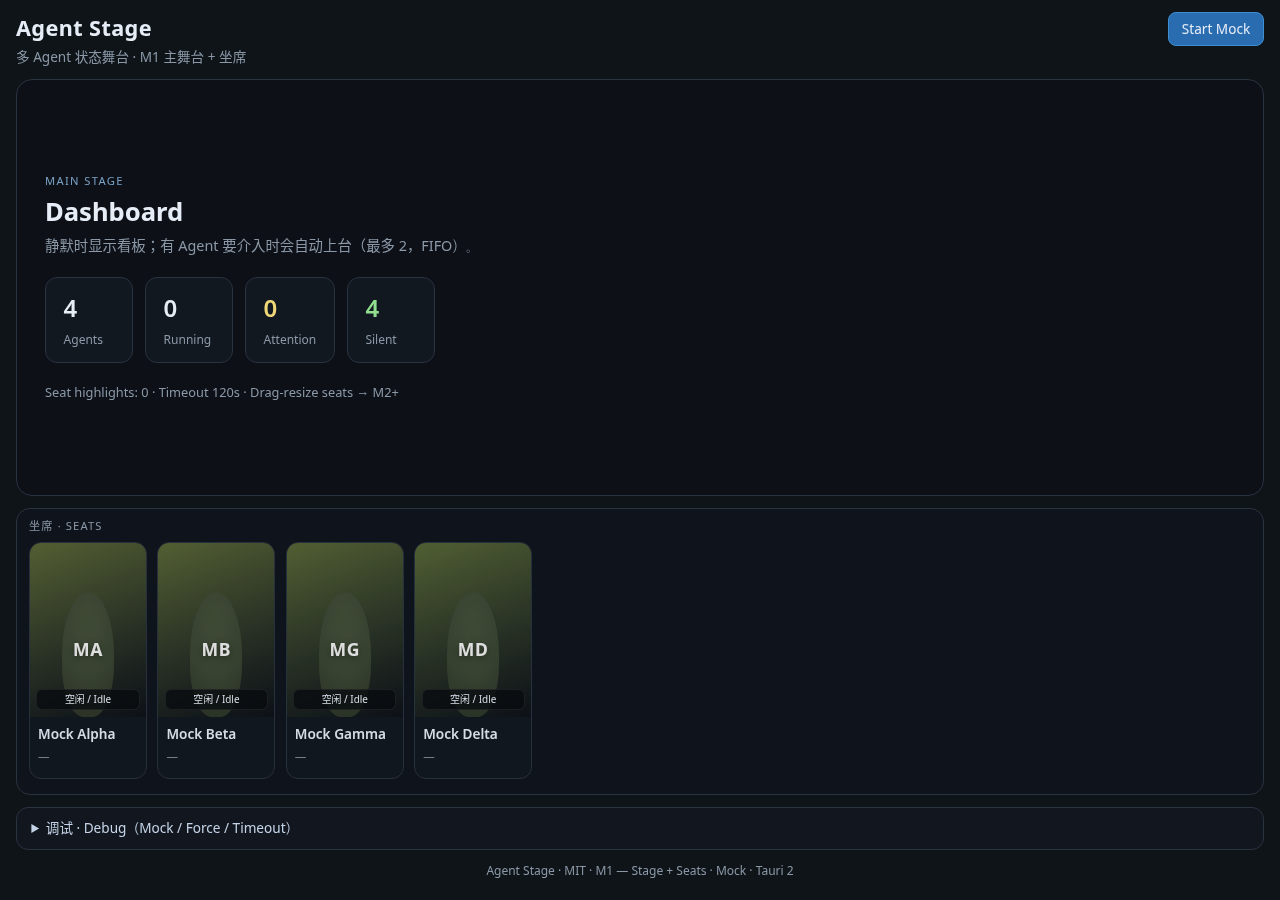
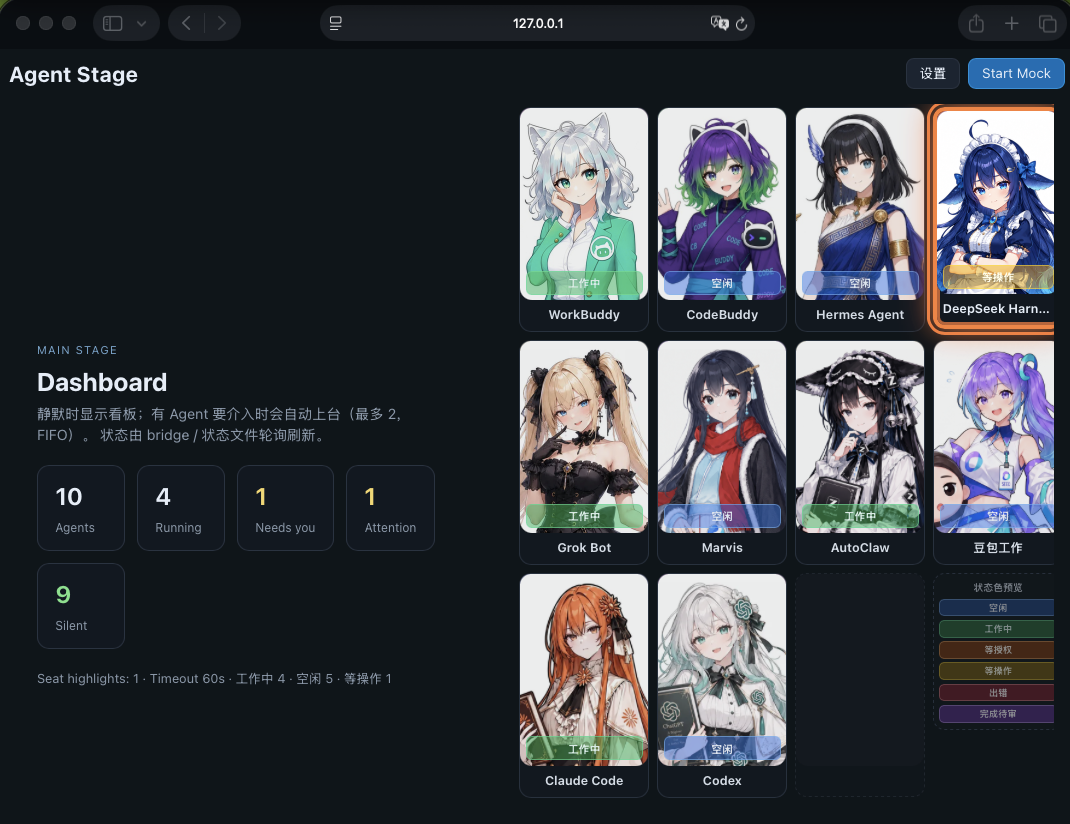
docs: refresh screenshots from live Agent Stage roster

diff --git a/README.md b/README.md
@@ -25,11 +25,13 @@
 
 ## 截图 · Screenshots
 
-| 主看板 | 上台 | 左右坐席 |
+主看板为 **2026-10-21 实况花名册**（本机 live poller + 全坐席启动，非 Mock）。上台 / 分屏仍为较早 UI 示意；同目录另有 `live-roster-20261021.png` 备份。
+
+| 主看板（实况） | 上台（较早示意） | 左右坐席（较早示意） |
 |--------|------|----------|
 | ![dashboard](docs/screenshots/m1-dashboard.png) | ![on stage](docs/screenshots/m1-on-stage.png) | ![split](docs/screenshots/m1-split-stage.png) |
 
-坐席侧布局（2048 宽副屏示意）：
+坐席侧布局（2048 宽副屏示意，较早）：
 
 | bottom | left | right |
 |--------|------|-------|
